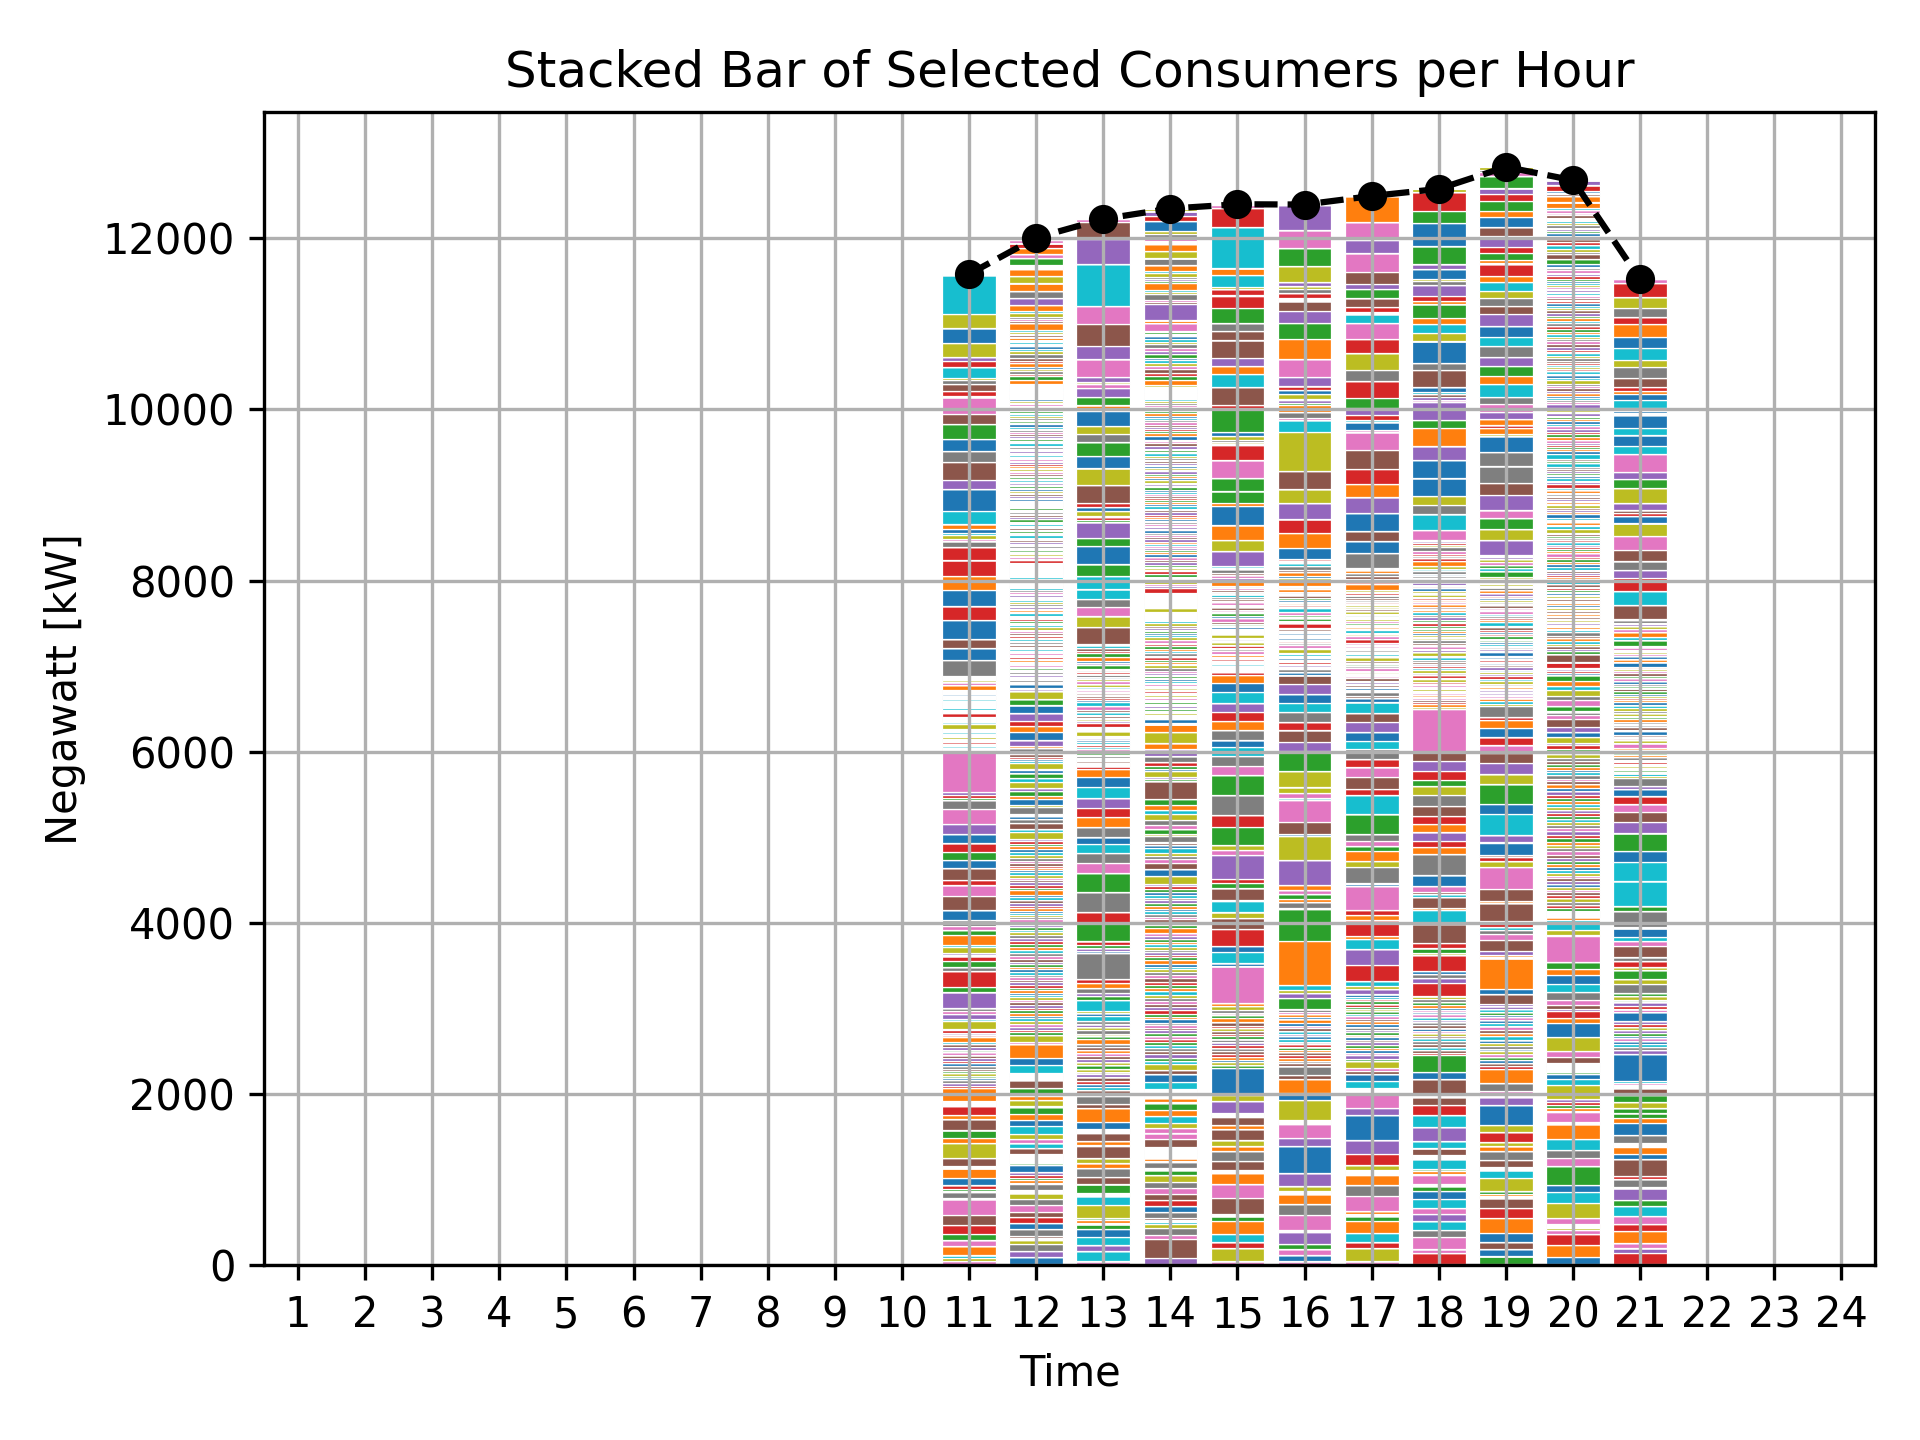
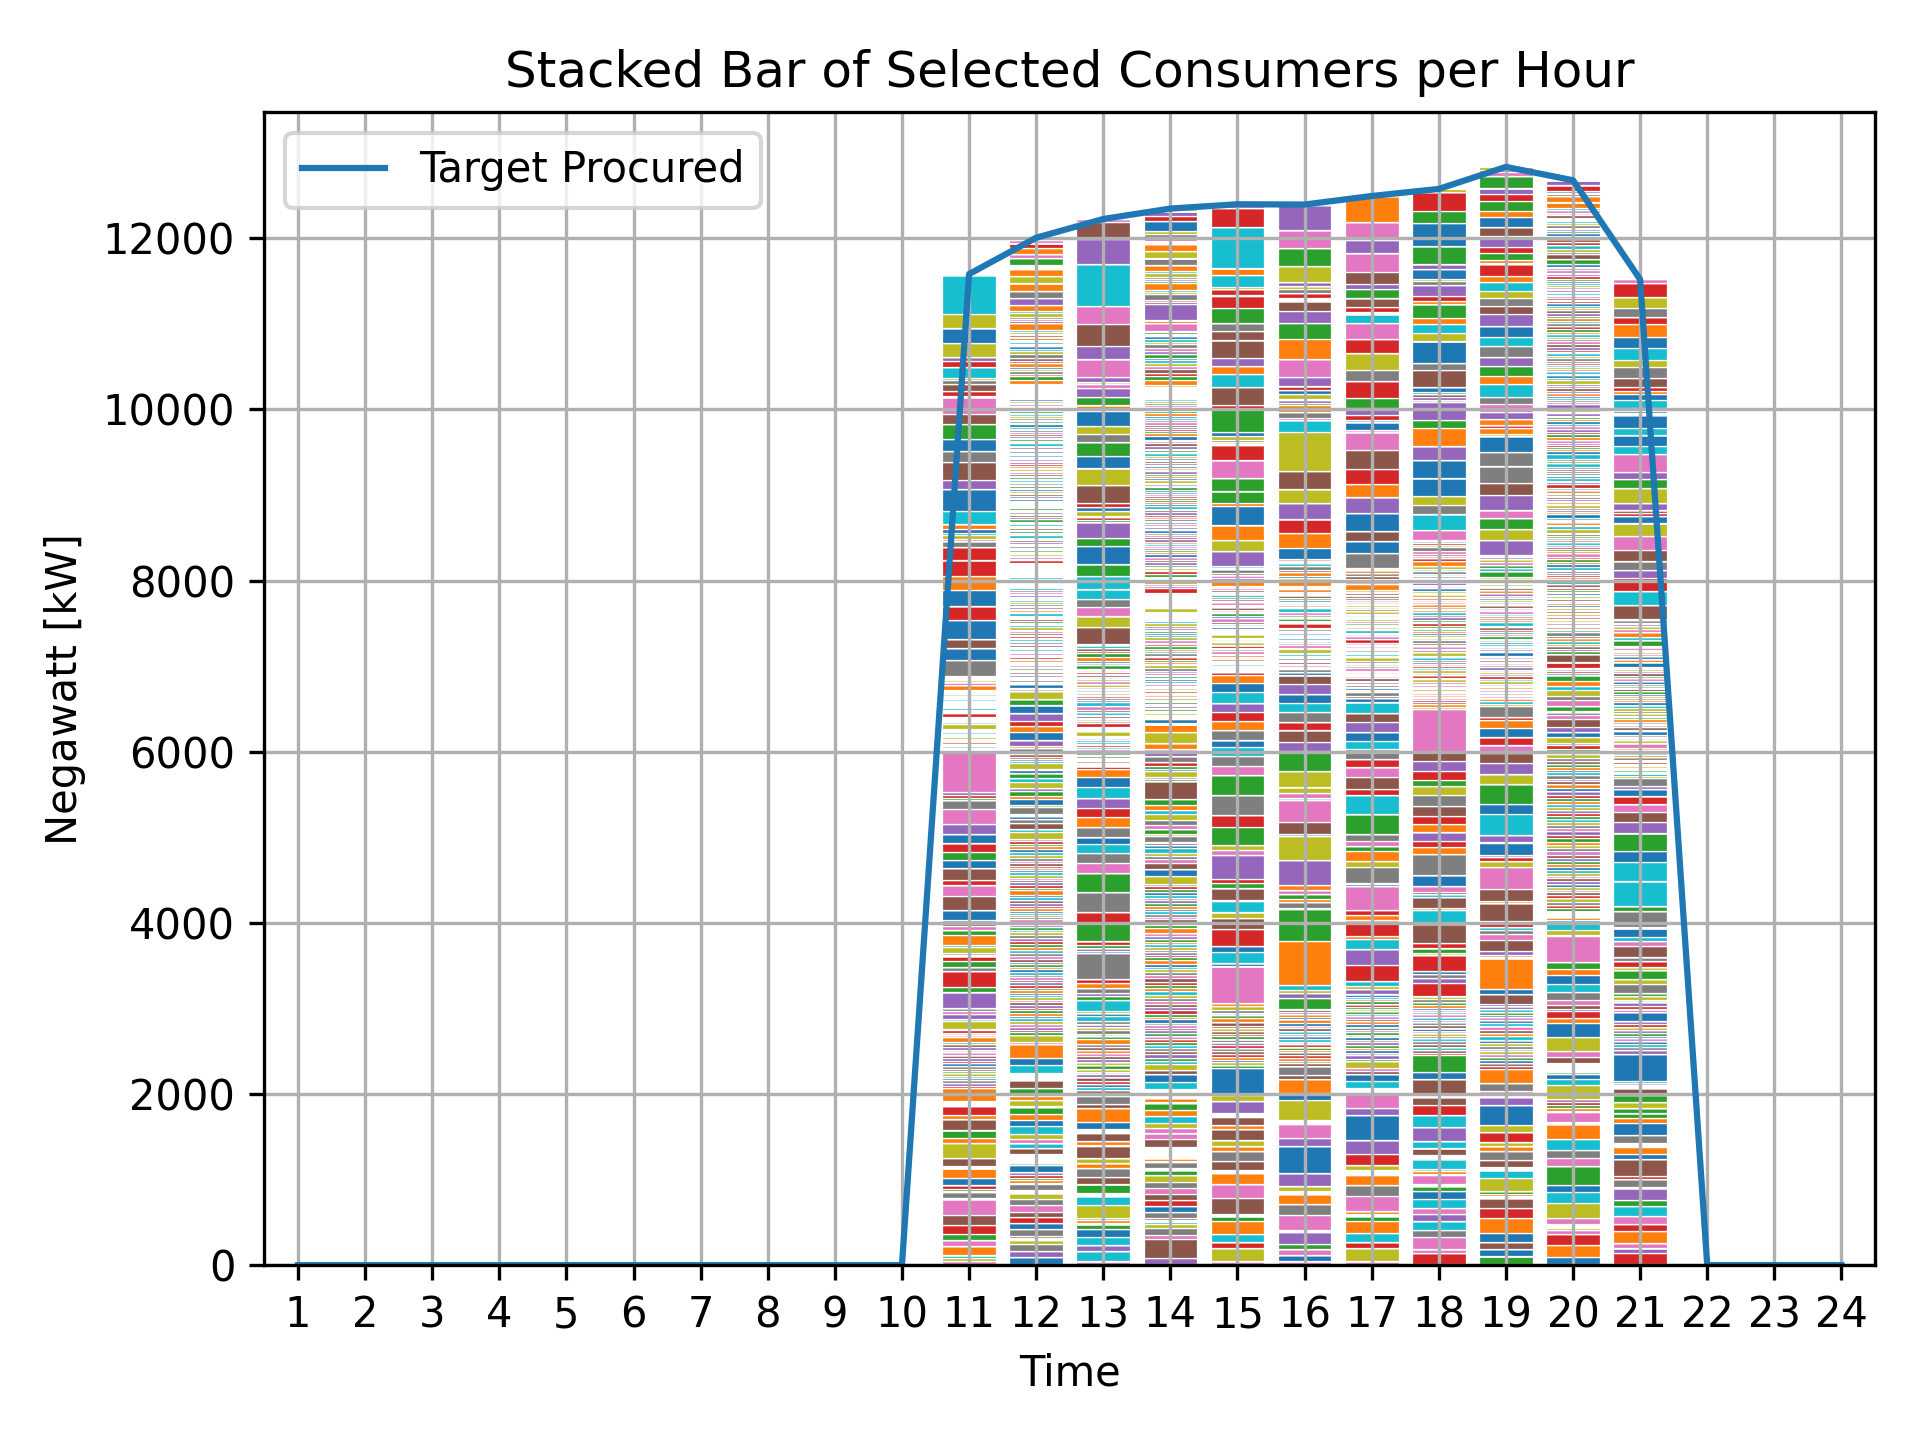
update

diff --git a/pyplot_procured_result.py b/pyplot_procured_result.py
@@ -125,11 +125,13 @@ bottoms = np.zeros(24)
 for idx, consumer in enumerate(sorted(consumer_bar_data.keys())):
     values = consumer_bar_data[consumer]
     ax.bar(range(1, 25), values, bottom=bottoms, color=color_cycle[idx % len(color_cycle)],
-           edgecolor='white', linewidth=0.3, label=consumer if idx < 10 else None)  # 凡例は10個まで
+#           edgecolor='white', linewidth=0.3, label=consumer if idx < 10 else None)  # 凡例は10個まで
+           edgecolor='white', linewidth=0.3)  # 凡例はなし    
     bottoms += np.array(values)
 
 # total_mean を重ねて表示（確認用）
-ax.plot(hours, total_means, 'o--', color='black', label='Total Mean')
+#ax.plot(hours, total_means, 'o--', color='black', label='Total Mean')
+ax.plot(full_hours, procured_filled, color='tab:blue', linestyle='-', label='Target Procured')
 
 ax.set_xlabel('Time')
 ax.set_ylabel('Negawatt [kW]')
@@ -137,7 +139,7 @@ ax.set_title('Stacked Bar of Selected Consumers per Hour')
 ax.set_xticks(range(1, 25))
 ax.grid(True)
 ax.set_xlim(0.5, 24.5)
-#ax.legend(loc='upper right', fontsize='small', ncol=2)
+ax.legend(loc='upper left')
 
 plt.tight_layout()
 plt.savefig('output/stacked_bar_selected_consumers.png', dpi=300)
